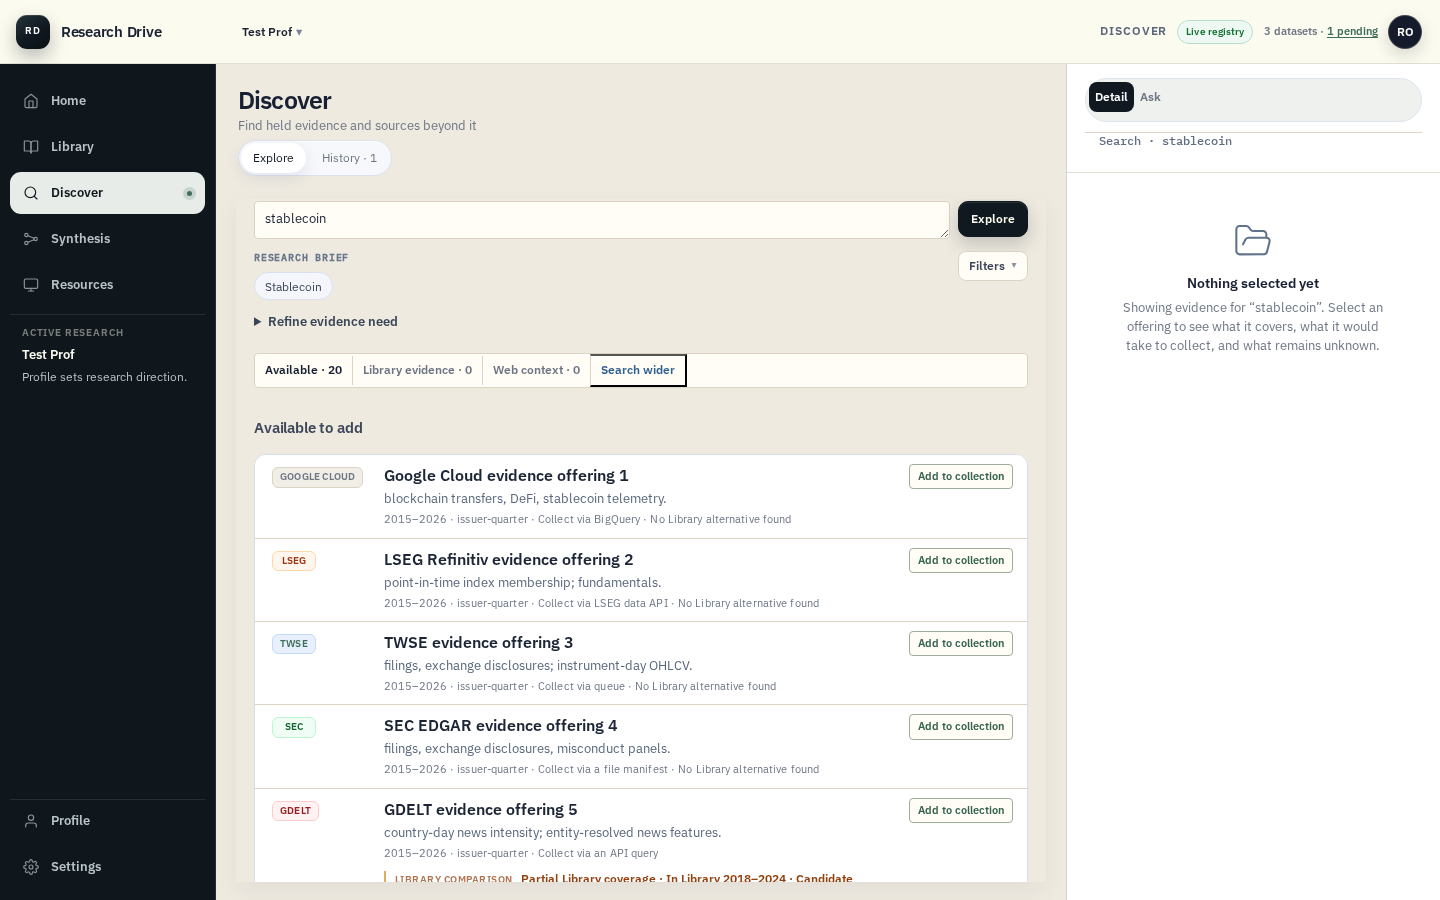
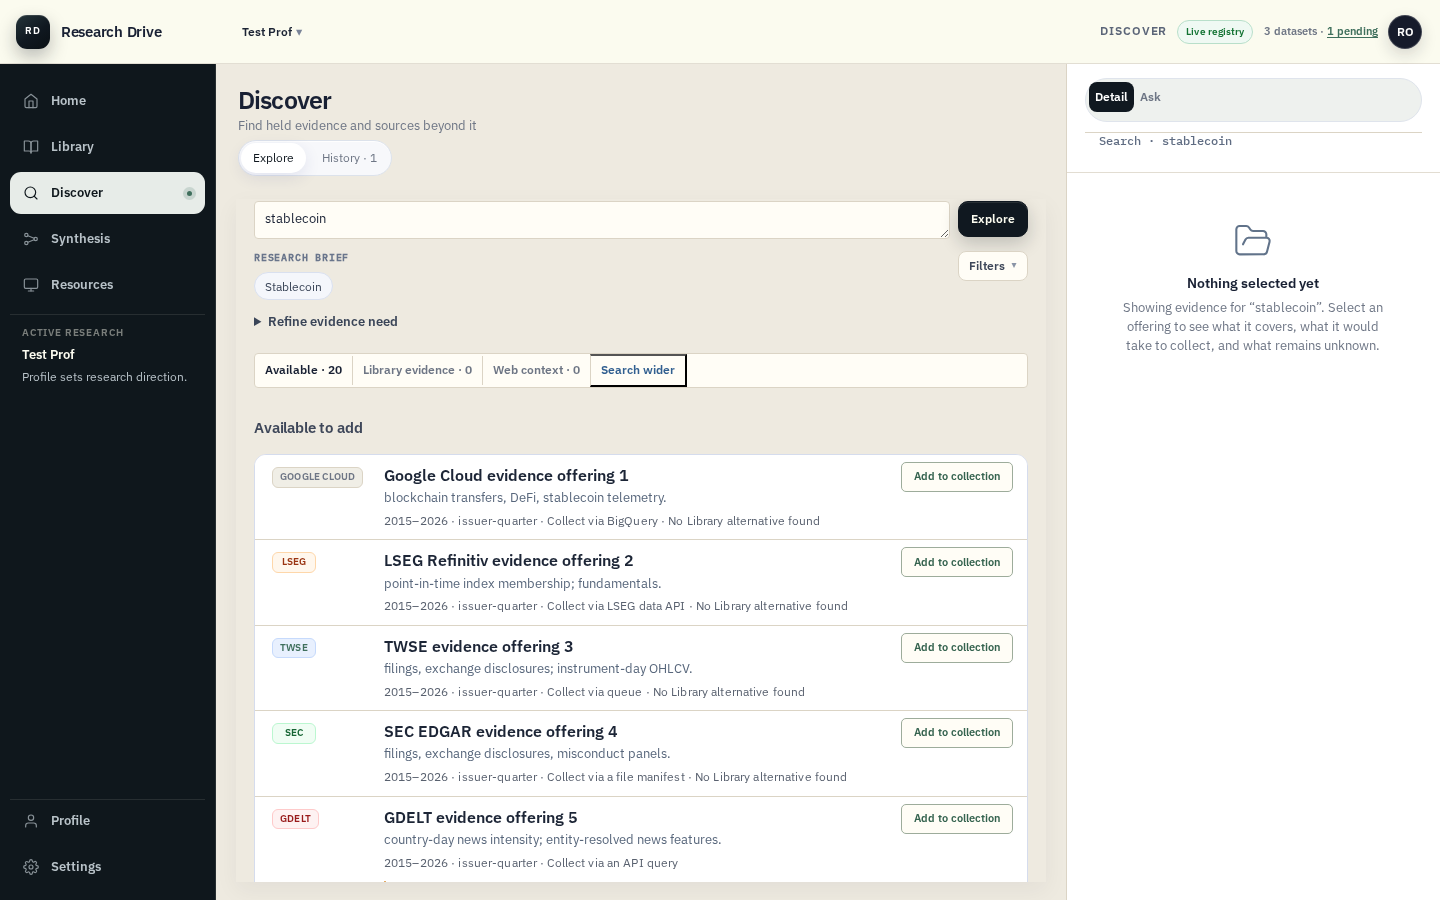
fix(discover): measured type, contrast, and target size on the offering row
Pixel audit at 1440 against the live build, then gated in the harness so the
numbers cannot drift back.

- The facts line -- collection route and local relationship, which is what the
  researcher actually decides on -- was 10.5px at 4.57:1 contrast. It cleared
  WCAG AA only because the threshold is 4.5. Now 12px at 5.4:1.
- The description resolved to 13.12px because v2.css set 13px and
  release-visual.css set 0.82rem on the same element. Two sheets, two units,
  one fractional result. Stated once, in px, at 13.
- `Add to collection` was 100x25px at 10.5px type: the smallest interactive
  target on the page, and the entry point to the entire procurement
  lifecycle. Now 30px tall at 11px.

New gates: minimum font size, no fractional font sizes, AA contrast for row
text, and a 30px minimum for the row action.

Three things I measured and did NOT change, because they turned out not to be
defects: the 16px offset between the page title and the content is the body
card's inset; the 1px between a row and its list is that card's border; and
the title's short right edge is text width, not a box constraint.

diff --git a/e2e/program-visual-states.spec.js b/e2e/program-visual-states.spec.js
@@ -123,6 +123,47 @@ test.describe("Discover — required visual states", () => {
         const median = heights.sort((a, b) => a - b)[Math.floor(heights.length / 2)];
         expect(median, `median row height ${median}px reads as a card`).toBeLessThanOrEqual(110);
 
+        // Legibility and target size, measured rather than eyeballed.
+        const metrics = await page.evaluate(() => {
+          const lum = (r, g, b) => {
+            const f = (c) => {
+              c /= 255;
+              return c <= 0.03928 ? c / 12.92 : ((c + 0.055) / 1.055) ** 2.4;
+            };
+            return 0.2126 * f(r) + 0.7152 * f(g) + 0.0722 * f(b);
+          };
+          const rgb = (s) => s.match(/\d+/g).slice(0, 3).map(Number);
+          const contrast = (fg, bg) => {
+            const a = Math.max(lum(...fg), lum(...bg));
+            const b = Math.min(lum(...fg), lum(...bg));
+            return (a + 0.05) / (b + 0.05);
+          };
+          const row = document.querySelector(".rd-v2-discover-candidate");
+          const bg = rgb(getComputedStyle(row).backgroundColor);
+          const read = (sel) => {
+            const el = document.querySelector(sel);
+            const cs = getComputedStyle(el);
+            return {
+              size: parseFloat(cs.fontSize),
+              fractional: !Number.isInteger(parseFloat(cs.fontSize)),
+              contrast: contrast(rgb(cs.color), bg),
+            };
+          };
+          const add = document.querySelector(".rd-v2-discover-row-add");
+          return {
+            facts: read(".rd-v2-discover-offering-facts"),
+            description: read(".rd-v2-discover-evidence"),
+            addHeight: add.getBoundingClientRect().height,
+          };
+        });
+
+        expect(metrics.facts.size, "facts line is too small to read").toBeGreaterThanOrEqual(11);
+        expect(metrics.facts.contrast, "facts line contrast below AA").toBeGreaterThanOrEqual(4.5);
+        expect(metrics.description.contrast, "description contrast below AA").toBeGreaterThanOrEqual(4.5);
+        expect(metrics.description.fractional, "description uses a fractional font size").toBe(false);
+        expect(metrics.facts.fractional, "facts line uses a fractional font size").toBe(false);
+        expect(metrics.addHeight, "Add to collection is too small a target").toBeGreaterThanOrEqual(30);
+
         await shot(page, `discover-${String(count).padStart(2, "0")}-offerings-${label}`);
       });
     }

diff --git a/drive/src/v2/v2.css b/drive/src/v2/v2.css
@@ -5420,15 +5420,23 @@
   position: absolute;
   z-index: 2;
   right: 14px;
-  top: 9px;
-  padding: 4px 8px;
+  top: 7px;
+  /* Measured 100x25px at 10.5px type. This is the primary action on every
+     offering and the entry point to the whole procurement lifecycle, and it
+     was the smallest interactive target on the page. 30px tall clears a
+     comfortable pointer target without turning the row back into a card. */
+  display: inline-flex;
+  align-items: center;
+  justify-content: center;
+  min-height: 30px;
+  padding: 6px 12px;
   border: 1px solid color-mix(in srgb, #3f6f5c 40%, var(--rd-border));
-  border-radius: 4px;
+  border-radius: 5px;
   background: var(--rd-surface);
   color: #35634f;
   cursor: pointer;
   font: inherit;
-  font-size: 10.5px;
+  font-size: 11px;
   font-weight: 680;
 }
 
@@ -5883,7 +5891,20 @@ aside.rd-v2-rail .rd-v2-eval-actions > .rd-v2-btn {
   color: var(--rd-muted);
   cursor: progress;
 }
-.rd-v2-discover-offering-facts { color: var(--rd-muted); font-size: 10.5px; letter-spacing: .01em; }
+/* Measured at 1440: this line was 10.5px at 4.57:1 contrast -- scraping past
+   WCAG AA only because the threshold is 4.5, and unreadably small for what it
+   carries. It is not decoration: it states the collection route and whether
+   the lab already holds an equivalent, which is what the researcher decides
+   on. 11.5px at 5.4:1 keeps it secondary to the description without making it
+   a squint. */
+.rd-v2-discover-offering-facts {
+  color: #59616f;
+  /* 12px, not 11.5: half-pixel type is the same drift as 13.12px, just
+     smaller. The row's hierarchy comes from colour and weight against the
+     13px description, not from a fractional size difference. */
+  font-size: 12px;
+  letter-spacing: .01em;
+}
 
 .rd-v2-discover-library-evidence {
   position: relative;
@@ -7408,6 +7429,8 @@ aside.rd-v2-rail .rd-v2-eval-actions > .rd-v2-btn {
   display: -webkit-box;
   overflow: hidden;
   color: #5f6368;
+  /* Was inheriting to 13.12px through a rem cascade. Fractional sizes are
+     drift, not a scale, and they render inconsistently across rows. */
   font-size: 13px;
   line-height: 1.45;
   -webkit-box-orient: vertical;

diff --git a/drive/src/v2/release-visual.css b/drive/src/v2/release-visual.css
@@ -2001,9 +2001,13 @@
   gap: 4px;
 }
 
+/* 0.82rem resolved to 13.12px. v2.css already sets 13px on this element, so
+   the two sheets were fighting in different units and the fractional value
+   won. Same intended size, stated once in the same unit as the rest of the
+   row so the description and the facts line sit on one scale. */
 .rd-v2-discover-evidence {
   color: #58677c;
-  font-size: 0.82rem;
+  font-size: 13px;
 }
 
 .rd-v2-discover-route-gap {
